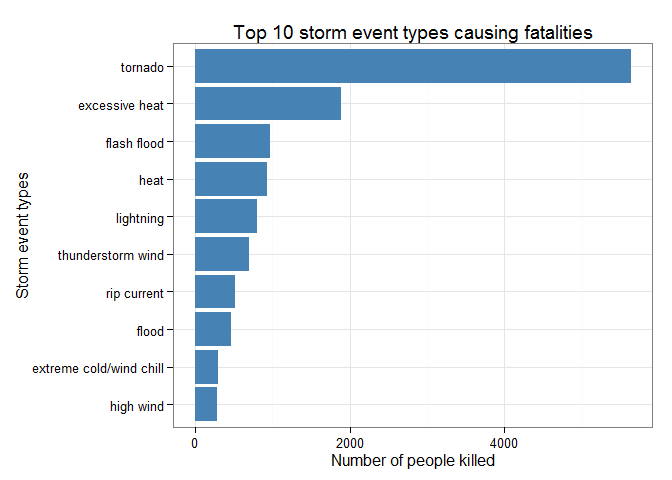
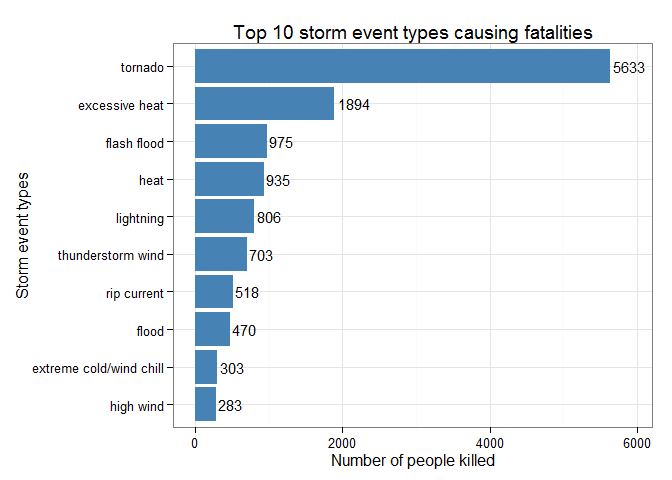
Add modified bar plot files

diff --git a/noaa_database_analysis.md b/noaa_database_analysis.md
@@ -25,9 +25,7 @@ we will conduct a detailed data analysis in the subsequent chapter
 *Results*.
 
 **Note**: Based on time constraints on my side I was not able to answer
-the second question of the assignment. The code which created this
-report can also be found on GitHub:
-<https://github.com/alex23lemm/RepData_PeerAssessment2>.
+the second question of the assignment.
 
 Data Processing
 ---------------
@@ -102,7 +100,7 @@ event type term *Thunderstorm Wind*:
                  caption = "<b>Table 1:</b> Examples of event type name modifications"), type = 'html', include.rownames = FALSE)
 
 <!-- html table generated in R 3.1.0 by xtable 1.7-3 package -->
-<!-- Sun Jun 29 14:36:06 2014 -->
+<!-- Sun Jun 29 18:28:16 2014 -->
 <TABLE border=1>
 <CAPTION ALIGN="bottom"> 
 <b>Table 1:</b> Examples of event type name modifications
@@ -597,7 +595,7 @@ simple quantitative approach consisting of 5 steps:
                  caption = "<b>Table 2:</b> The 47 event types with the highest observation percentage contribution", digits = 7), type = 'html', include.rownames = FALSE)
 
 <!-- html table generated in R 3.1.0 by xtable 1.7-3 package -->
-<!-- Sun Jun 29 14:36:06 2014 -->
+<!-- Sun Jun 29 18:28:18 2014 -->
 <TABLE border=1>
 <CAPTION ALIGN="bottom"> 
 <b>Table 2:</b> The 47 event types with the highest observation
@@ -1184,7 +1182,7 @@ We decide to include the first 69 ordered event types which account for
           include.rownames = FALSE)
 
 <!-- html table generated in R 3.1.0 by xtable 1.7-3 package -->
-<!-- Sun Jun 29 14:36:07 2014 -->
+<!-- Sun Jun 29 18:28:18 2014 -->
 <TABLE border=1>
 <TR> <TH> 
 EVTYPE
@@ -1450,9 +1448,11 @@ type:
 
     ggplot(inj_fat_by_evtype_df[1:10, ], aes(reorder(evtype, injuries), injuries)) + 
       geom_bar(stat='identity', fill = 'steelblue') +
+      geom_text(aes(label = injuries), size = 4, hjust = -0.1) +
       xlab('Storm event types') +
       ylab('Number of people injured') +
       ggtitle('Top 10 storm event types causing injuries') +
+      ylim(0, max(inj_fat_by_evtype_df$injuries * 1.05)) +
       coord_flip() +
       theme_bw()
 
@@ -1461,9 +1461,9 @@ injuries\_barplot](./noaa_database_analysis_files/figure-markdown_strict/injurie
 <figcaption>
 <b>Figure 3: Injuries by storm event type in the United States (1950 -
 2011)</b> Tornado ranks first with 91346 caused injuries followed by
-thunderstorm wind with 9448 persons injured. The only other storm events
-above the 5000 threshold are flood (6791), excessive heat (6542), and
-lightning (5230).
+thunderstorm wind with 9402 persons injured. The only other storm events
+above the 5000 threshold are flood (6788), excessive heat (6225), and
+lightning (5212).
 </figcaption>
 </figure>
 
@@ -1473,9 +1473,11 @@ lightning (5230).
 
     ggplot(inj_fat_by_evtype_df[1:10, ], aes(reorder(evtype, fatalities), fatalities)) + 
       geom_bar(stat='identity', fill = 'steelblue') +
+      geom_text(aes(label = fatalities), size = 4 , hjust = -0.1) +
       xlab('Storm event types') +
       ylab('Number of people killed') +
       ggtitle('Top 10 storm event types causing fatalities') +
+      ylim(0, max(inj_fat_by_evtype_df$fatalities * 1.05)) +
       coord_flip() +
       theme_bw() 
 
@@ -1484,10 +1486,10 @@ fatalities\_barplot](./noaa_database_analysis_files/figure-markdown_strict/fatal
 <figcaption>
 <b>Figure 4: Fatalities by storm event type in the United States (1950 -
 2011)</b> Tornado ranks first with 5633 caused fatalities followed by
-excessive heat with 1914 persons killed. The only other storm events
+excessive heat with 1894 persons killed. The only other storm events
 which have killed more than 500 persons in the last six decaces are
-flash flood (1014), heat (937), lightning (816) thunderstorm wind (706),
-and rip current (572).
+flash flood (975), heat (935), lightning (806) thunderstorm wind (703),
+and rip current (518).
 </figcaption>
 </figure>
 
